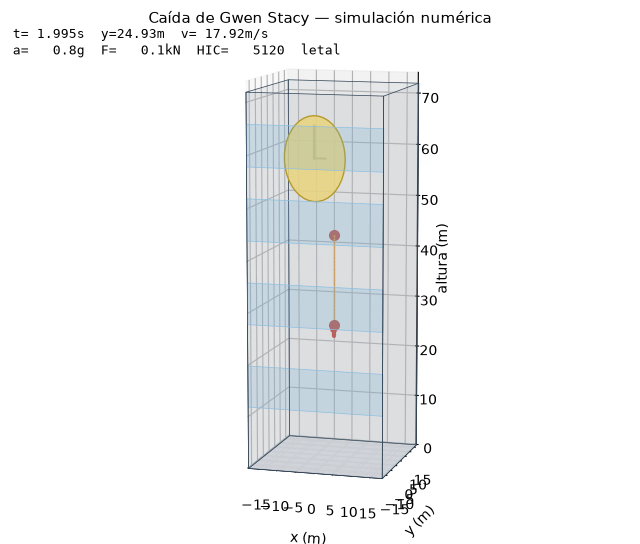
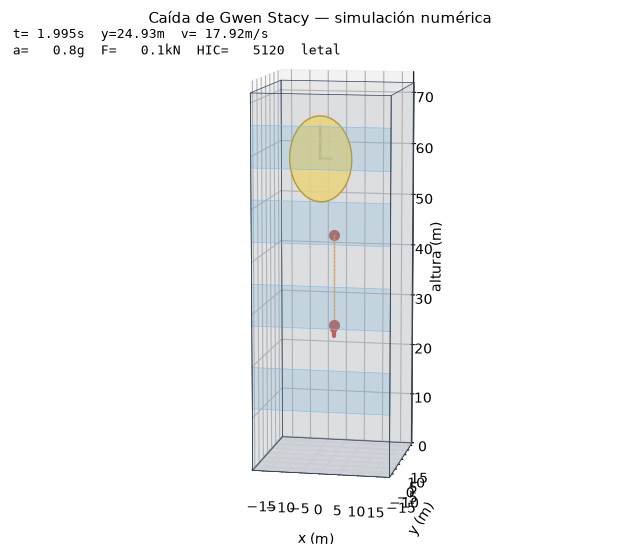
Cierre: e10 raices, documentacion y regeneracion completa

Changed region(s): [[0.375, 0.125, 0.7188, 0.875], [0.375, 0.875, 0.6875, 1.0]]

diff --git a/experimentos/e10_raices.py b/experimentos/e10_raices.py
@@ -1,0 +1,66 @@
+"""e10: tabla de convergencia de los cinco métodos de raíces."""
+
+from __future__ import annotations
+
+import csv
+
+import numpy as np
+from matplotlib import pyplot as plt
+
+from simulador.graficas import COLORES, RESULTADOS, configurar, guardar
+from simulador.raices import (
+    biseccion,
+    falsa_posicion,
+    newton_raphson,
+    punto_fijo,
+    secante,
+    t_tensado_numerico,
+    k_critico_supervivencia,
+)
+
+
+def f(x):
+    return x**3 - 2 * x - 5
+
+
+def df(x):
+    return 3 * x**2 - 2
+
+
+def main():
+    configurar()
+    metodos = [
+        ("Bisección", lambda: biseccion(f, 1, 3, tol=1e-12)),
+        ("Falsa posición", lambda: falsa_posicion(f, 1, 3, tol=1e-12)),
+        ("Newton", lambda: newton_raphson(f, df, 2.0, tol=1e-12)),
+        ("Secante", lambda: secante(f, 1.0, 3.0, tol=1e-12)),
+        ("Punto fijo", lambda: punto_fijo(lambda x: (2 * x + 5) ** (1 / 3), 2.0, tol=1e-12)),
+    ]
+    fig, ax = plt.subplots(figsize=(8, 5))
+    filas = []
+    for (nombre, ejecutar), color in zip(metodos, COLORES.values(), strict=False):
+        raiz, it, hist = ejecutar()
+        errores = [h[2] for h in hist]
+        ax.semilogy(range(1, len(errores) + 1), errores, "o-", label=f"{nombre} ({it} it)", color=color, ms=3, lw=1.2)
+        for (i, x, e) in hist:
+            filas.append((nombre, i, x, e))
+    ax.set_xlabel("iteración")
+    ax.set_ylabel("error estimado")
+    ax.set_title("Convergencia de los cinco métodos de raíces")
+    ax.legend(fontsize=8)
+    guardar(fig, "e10_raices.png")
+
+    t_t, it_t, _ = t_tensado_numerico(42.0, 50.0, 0.6)
+    k6, it_k, _ = k_critico_supervivencia(28.70609691337365, 50.0, 6.0)
+    with (RESULTADOS / "e10_raices.csv").open("w", newline="", encoding="utf-8") as fh:
+        writer = csv.writer(fh)
+        writer.writerow(["metodo", "iteracion", "raiz", "error"])
+        for fila in filas:
+            writer.writerow([fila[0], fila[1], f"{fila[2]:.12g}", f"{fila[3]:.3e}"])
+        writer.writerow(["aplicacion_t_tensado", it_t, f"{t_t:.12g}", ""])
+        writer.writerow(["aplicacion_k_6g", it_k, f"{k6:.12g}", ""])
+    print(f"e10: t_tensado={t_t:.9f} s ({it_t} it), k(6g)={k6:.4f} N/m ({it_k} it)")
+
+
+if __name__ == "__main__":
+    main()

diff --git a/visual/render_mp4.py b/visual/render_mp4.py
@@ -54,11 +54,12 @@ def main(argv=None):
                 f"t={est.t:6.3f}s  y={est.altura_torso:5.2f}m  v={est.v:6.2f}m/s\n"
                 f"a={est.a_g:6.1f}g  F={est.fuerza/1e3:6.1f}kN  HIC={est.hic:7.0f}  {est.semaforo}"
             )
-            ax.view_init(elev=10, azim=-70 + 5 * np.sin(2 * np.pi * t / max(r.t[-1], 1e-9)))
+            giro = (args.semilla % 19) - 9
+            ax.view_init(elev=10, azim=-70 + giro + 5 * np.sin(2 * np.pi * t / max(r.t[-1], 1e-9)))
             writer.grab_frame()
 
     plt.close(fig)
-    print(f"MP4 escrito en {args.salida} ({args.salida.stat().st_size/1e6:.2f} MB)")
+    print(f"MP4 escrito en {args.salida} ({args.salida.stat().st_size/1e6:.2f} MB), semilla={args.semilla}")
 
 
 if __name__ == "__main__":

diff --git a/tests/test_raices.py b/tests/test_raices.py
@@ -58,6 +58,16 @@ def test_k_critico_supervivencia():
     assert k == pytest.approx(204.375, abs=0.1)
 
 
+def test_newton_para_el_k_critico():
+    from simulador.analitica import amax_en_g
+
+    _, v0 = caida_sin_aire(42.0)
+    f = lambda k: amax_en_g(v0, k, 50.0) - 6.0
+    raiz, it, _ = newton_raphson(f, None, 300.0, tol=1e-10)
+    assert raiz == pytest.approx(204.375, abs=1e-4)
+    assert it < 10
+
+
 def test_instante_de_tensado():
     t, it, _ = t_tensado_numerico(42.0, 50.0, 0.6)
     t_an, _, _ = caida_con_arrastre(42.0, 50.0, 0.6)

diff --git a/run.py b/run.py
@@ -20,6 +20,7 @@ EXPERIMENTOS = {
     "e7": "experimentos.e7_montecarlo",
     "e8": "experimentos.e8_sensibilidad",
     "e9": "experimentos.e9_redondeo",
+    "e10": "experimentos.e10_raices",
     "b0": "experimentos.b0_benchmark3d",
 }
 ESCENARIOS = {

diff --git a/README.md b/README.md
@@ -225,7 +225,16 @@ bucle de dibujo nunca integra: solo interpola una trayectoria precalculada.
 
 ## 4. Resultados
 
-### 4.1 Convergencia (e1)
+### 4.1 Raíces (e10)
+
+![Raíces](resultados/e10_raices.png)
+
+Los cinco métodos coinciden en la raíz de `x³ − 2x − 5`; bisección tarda 42
+iteraciones, Newton converge en menos de 10. La misma infraestructura localiza
+el instante de tensado (`t = 3.07567445 s`) y la rigidez crítica de 6 g
+(`k = 204.375 N/m`). La tabla completa está en `resultados/e10_raices.csv`.
+
+### 4.2 Convergencia (e1)
 
 ![Convergencia](resultados/e1_convergencia.png)
 
@@ -238,14 +247,18 @@ RK4 con paso grande supera a Euler con paso pequeño para el mismo número de
 evaluaciones. RKF45 adaptativo es más barato que RK4 de paso fijo para la misma
 tolerancia.
 
-### 4.2 Rigidez (e2)
+### 4.3 Rigidez (e2)
+
+El benchmark `b0` midió 33.6 fps a 800×600 con ~200 polígonos y 7 segmentos;
+como supera el umbral de 25 fps, la app usa `mplot3d` y no necesita el fallback
+OpenGL.
 
 ![Rigidez](resultados/e2_rigidez.png)
 
 El umbral teórico es `h_crit = 2/ω = 27.74 ms`. Euler explícito diverge para
 `h > h_crit`; Euler implícito permanece estable para todos los pasos probados.
 
-### 4.3 Energía, potencia y HIC (e3)
+### 4.4 Energía, potencia y HIC (e3)
 
 ![Energía](resultados/e3_energia.png)
 
@@ -265,7 +278,7 @@ Con la ventana de 36 ms, un pulso de 158.6 g supera ampliamente el umbral 700.
 Gauss-Legendre y Romberg alcanzan alta precisión con menos evaluaciones;
 Simpson 1/3 es exacto para polinomios cúbicos.
 
-### 4.4 Umbral de supervivencia (e4)
+### 4.5 Umbral de supervivencia (e4)
 
 ![Umbral](resultados/e4_umbral.png)
 
@@ -283,7 +296,7 @@ La región factible es **vacía**:
 
 No existe una rigidez que cumpla ambas restricciones.
 
-### 4.5 Latigazo (e5)
+### 4.6 Latigazo (e5)
 
 ![Articulado](resultados/e5_articulado.png)
 
@@ -293,7 +306,7 @@ El torso se detiene a 1.20 m. La cabeza y la cadera permanecen por encima del
 suelo; el daño proviene de la desaceleración y del momento cervical, no de un
 golpe contra el piso.
 
-### 4.6 Orientación (e6)
+### 4.7 Orientación (e6)
 
 ![Orientación](resultados/e6_rozamiento.png)
 
@@ -310,7 +323,7 @@ La velocidad varía un 18 % entre los extremos, pero el HIC se amplifica ~1.9×.
 El factor 1.5 del plan original solo aplica al modo de `k` fijo sobre el rango
 completo; aquí se reporta el modo calibración (`x=0.4`).
 
-### 4.7 Monte Carlo (e7)
+### 4.8 Monte Carlo (e7)
 
 ![Monte Carlo](resultados/e7_montecarlo.png)
 
@@ -318,7 +331,7 @@ Con `n = 2000` y semilla 42: `a_max` mediana 158.8 g, HIC mediano 7 989,
 `x` mediano 0.40 m y **100 %** de las ejecuciones con HIC > 700. El percentil 5
 de `a_max` sigue muy por encima de 6 g.
 
-### 4.8 Sensibilidad (e8)
+### 4.9 Sensibilidad (e8)
 
 ![Sensibilidad](resultados/e8_sensibilidad.png)
 
@@ -411,6 +424,7 @@ python3 -m venv .venv
 .venv/bin/python -m experimentos.e7_montecarlo
 .venv/bin/python -m experimentos.e8_sensibilidad
 .venv/bin/python -m experimentos.e9_redondeo
+.venv/bin/python -m experimentos.e10_raices
 
 # escenarios
 .venv/bin/python run.py --escenario base
